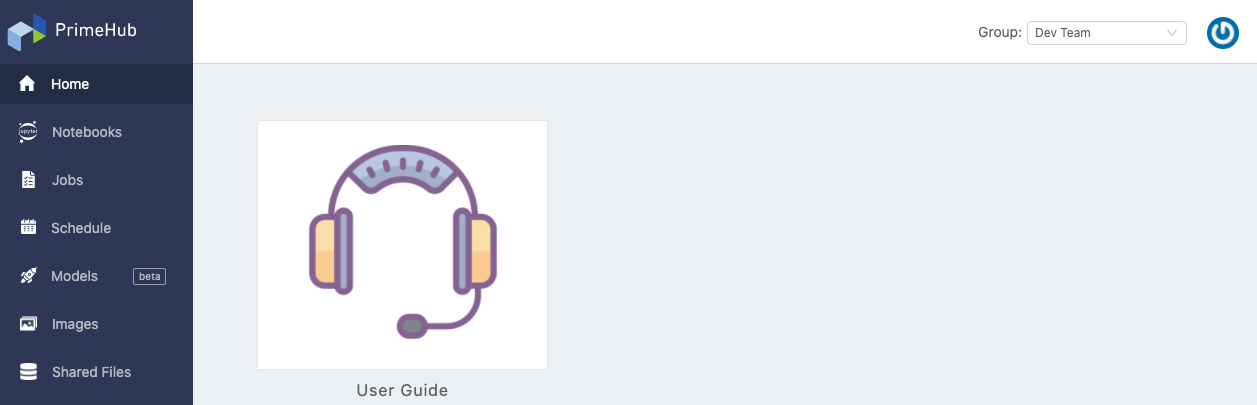
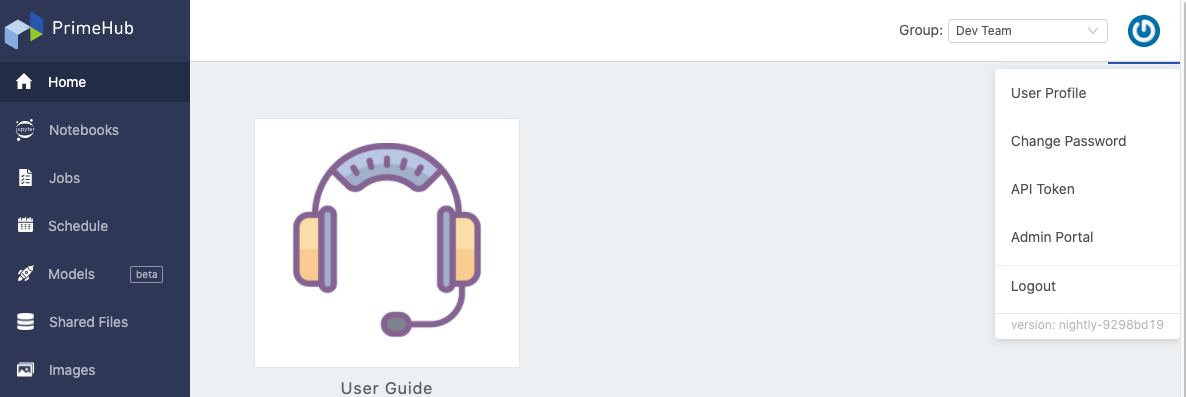
added roles doc and re-org sidebar context.

diff --git a/docs/quickstart/login-portal-user.md b/docs/quickstart/login-portal-user.md
@@ -2,6 +2,7 @@
 id: login-portal-user
 title: User Portal
 description: User Portal
+sidebar_label: Introduction
 ---
 
 <div class="label-sect">
@@ -13,46 +14,53 @@ description: User Portal
   </div>
 </div>
 
-This quickstart shows how to login/logout `User Portal`.
-
-## Login
-
-Click Login with your own username (such as `phadmin` by default) and password.
-
 ## User Portal
+
+After login, a user lands on User Portal.
 
 ![](assets/v33-landing-user.png)
 
-On Portal, the left side is **side menu**, the right side is the **context of the current working group**. At the top of the right side, there is a `Group:` dropdown for working groups switch. Users can switch the working group among joining groups easily.
+On Portal, the left side is **side menu** composed of platforme user features, the right side is the **context of the current working group**. At the top-right, there is a `Group:` dropdown of switching working groups. Users can switch the working group to proceed to different projects easily.
 
-First of all, users have to specify a working group from joining groups by using the dropdown. Accordingly, the following context will be retained within the working group.
+
+### Group-Context
+
+First of all, users have to specify a working group from joining groups by using the dropdown. Accordingly, the following right-side context is retained within the working group, it is so called **Group-Context**.
 
 ![](assets/group_context.png)
 
-At side menu, there are
-
-+ **Home** where users can find `User Guide` link which connects to this `PrimeHub Documentation` site.
-
-+ **Notebooks**  where users can launch a Jupyter Notebook for projects.See [Launch Notebook](../quickstart/launch-project).
-
-+ **Jobs** where users can submit jobs for time-consuming tasks. See [Job Submission](../job-submission-feature). <span class="ee-only">Enterprise</span>
-
-+ **Schedule** where users can schedule jobs regularly. See [Job Scheduler](../job-scheduling-feature). <span class="ee-only">Enterprise</span>
-
-+ **Models (Beta)** where users can deploy and serve models as services. See [Model Deployment](../model-deployment-feature). <span class="ee-only">Enterprise</span>
-
-+ **Images** where Group Admin can add group-specific images for the managed group. See [Images](../group-image). (Group Admin Only)
-
-+ **Shared Files** where users can upload files to PHFS storage to share with group members. See [Shared Files](../shared-files).
-
->If users don't belong to any group, the page shows `No group available`. Please contact administrators.
+>If users don't belong to any group, the page shows `No group available` without any features. Please contact administrators.
 
 ![](assets/v3-landing-user-no-group.png)
 
-## Logout
 
-Please click `Logout` button at top-right. The page would be directed to the `Login` page.
+### Profile Menu
 
+Hovering over top-right icon, there is a Profile Menu containing **User Profile**, **Change Password**, **API Token**, **Admin Portal** and **Logout** shortcuts.
+
+
+## User Feature
+
++ **Home** where users can find **User Guide** linking to the **PrimeHub Documentation** site.
+
++ **Notebooks**  where users can launch a Jupyter Notebook for projects. See [Notebook environment](../quickstart/launch-project).
+
++ **Jobs** where users can submit jobs of time-consuming tasks. See [Jobs](../job-submission-feature). <span class="ee-only">Enterprise</span>
+
++ **Schedule** where users can schedule jobs regularly. See [Schedule](../job-scheduling-feature). <span class="ee-only">Enterprise</span>
+
++ **Models (Beta)** where users can deploy and serve models as services. See [Model Deployment](../model-deployment-feature). <span class="ee-only">Enterprise</span>
+
++ **Shared Files** where users can upload files to PHFS storage to share with group members. See [Shared Files](../shared-files).
+
+### Group admin feature
+
+Features here are Group-Admin-Only.
+
++ **Images** where Group Admin can add/build group-specific images for the managed group. See [Images](../group-image).
+
+> Please contact administrators to acquire Group Admin privilege.
+ 
 
 ## License warning
 

diff --git a/docs/getting-started-user.md b/docs/getting-started-user.md
@@ -3,32 +3,6 @@ id: getting-started-user
 title: Getting Started
 ---
 
-## Overview
-
-**PrimeHub** is based on team/group-centric design that every user must be associated with one *Group* at least before using features. Initially there are a user `phadmin` who has admin privileges associated with a group `phusers`.
-
-Also, resources such as image, instance type, dataset must be associated with one *Group* at least or be *Global* before being chosen.
-
-PrimeHub v3, furthermore, enhances this concept by introducing *Group-Context* design.
-
-Initial PrimeHub has a built-in *user* `phadmin`, a built-in *group* `phusers`, several *instance types*/*image* which are available to *Global* ready to use. A user can launch a notebook quickly by using these resources. 
-
-To add/delete/edit users, groups and other resources, users are required to switch to Admin Portal, use [administration features](getting-started-admin) there to achieve it.
-
-## Group-Context
-
-+ A current working project-group is required to be specified from associated groups of users; users can switch working groups to have the different context.
-
-+ Accordingly, the context/the operations are retained within the working group.
-
-+ `Jobs` feature, `Schedule` feature and `Models` feature, these features present/operate items *only within the current working group*. Furthermore, user-operations, such as submitting jobs, creating job schedule and serving models, are also performed within the current working group correspondingly.
-
-+ Notebook will be launched within the current working group by default.
-
-+ Context are independently from groups.
-
-## Guides
-
 Here are documents to guide you to launch a notebook, to submit jobs, to deploy models via features on User Portal and so on.
 
 + [Access User Portal](quickstart/login-portal-user.md)

diff --git a/docs/getting-started-admin.md b/docs/getting-started-admin.md
@@ -3,47 +3,3 @@ id: getting-started-admin
 title: Administration
 ---
 
-## 🌟PrimeHub v3
-
-From **PrimeHub v3**, administration features are performed on `Admin Portal` which is independent from **User Portal**. Please check changes below if you come from PrimeHub v2.x or just skip to guides if you are newcomers.
-
-## Admin Portal
-
-![](assets/v3-admin-portal_v31.png)
-
-### Changes from PrimeHub v2.x
-
-+ Then entrance of **Admin Portal**. See [Access Admin Portal](quickstart/login-portal-admin). 
-
-+ `Notebooks Admin` feature, `Maintenance` feature and `Grafana` link are merged into Admin Portal.
-
-+ `JupyterHub Admin` is renamed to `Notebooks Admin`.
-
-+ `System` is renamed to `System Settings`.
-
-## Guides
-
-PrimeHub provides features which help administrators manage resources, control access of users/groups and operate certain maintenance tasks. All of these features are performed on **Admin Portal**.
-
-Guides are included:
-
-+ [Access Admin Portal](quickstart/login-portal-admin)
-
-+ [Manage PrimeHub system and check the license](guide_manual/admin-system)
-
-+ [Manage users and groups](guide_manual/admin-user)
-
-+ [Manage instance types, images, dataset resources](guide_manual/admin-instancetype)
-
-+ [Build custom images for users](guide_manual/admin-build-image)
-  + [Custom Image Guideline](guide_manual/custom-image-guideline)
-
-+ [Manage secrets(credentials)](guide_manual/admin-secret.md) 
-
-  + [GitLab Pull Secret](quickstart/secret-pull-image)
-  + [GitHub gitsync secret](quickstart/secret-gitsync)
-
-+ [Review monthly usage report](guide_manual/admin-report)
-  
-+ [Perform operations via Maintenance Notebook](maintenance)
-

diff --git a/docs/quickstart/login-portal-admin.md b/docs/quickstart/login-portal-admin.md
@@ -2,6 +2,7 @@
 id: login-portal-admin
 title: Admin Portal
 description: Admin Portal
+sidebar_label: Introduction
 ---
 
 <div class="label-sect">
@@ -13,27 +14,21 @@ description: Admin Portal
   </div>
 </div>
 
-This quickstart shows how to access `Admin Portal`.
-
-## Login
-
-Click Login with your own username (such as `phadmin` by default) and password.
-
 ## Switch to Admin Portal 
 
-When login as an administrator, initially, you are directed to **User Portal**, click the icon at top-right and select `Admin Portal` for the switch.
+When login as an administrator, initially, you are landed on **User Portal**, click the Profile icon at top-right and select **Admin Portal** for the switch.
 
 ![](assets/v3-admin-entry.png)
 
 ## Admin Portal
 
-Basically, the layout is same as Admin Dashboard in PrimeHub v2.x; in addition,  `Notebooks Admin` feature, `Maintenance` feature and `Grafana` link are merged into Admin Portal.
-
-+ `JupyterHub Admin` is renamed to `Notebooks Admin`.
-
 ![](assets/v3-admin-portal_v31.png)
 
-### Side Menu
+### Profile Menu
+
+Hovering over top-right icon, there is a Profile Menu containing **User Profile**, **Change Password** and **Logout** shortcuts.
+
+## Administration Features
 
 + `Groups` where Admin can manage groups. See [Group Management](../guide_manual/admin-group).
 
@@ -59,6 +54,4 @@ Basically, the layout is same as Admin Dashboard in PrimeHub v2.x; in addition, 
 
 + `Grafana` where Admin can view dashboards on **Grafana**.
 
-## Logout
 
-Click `Logout` button at top-right. The page would be directed to the `Login` page.

diff --git a/docs/introduction.md b/docs/introduction.md
@@ -4,14 +4,17 @@ title: Platform Introduction
 sidebar_label: Platform
 ---
 
-## Introduction
 
-**PrimeHub** is a platform for groups of data scientists. It is based on group-centric design, which facilitates resources management and accelerates collaborative development for groups. PrimeHub is composed of User Portal and Admin Portal.
+**PrimeHub** is a platform for groups of data scientists. Based on group-centric design, users can share datasets, artifacts and co-work easily within same groups/projects, which accelerates collaborative development for groups and facilitates resources management.
 
-User Portal incorporates scientists-facing features that scientists are able to generate models from Notebook and serve models by deployments.
+---
+
+PrimeHub platform is composed of **User Portal** and **Admin Portal**.
+
+**User Portal** incorporates scientists-facing prominent features that scientists are able to have pipelines by submitting/scheduling jobs, prepare data/generate models from Notebook and serve models by deployments. See [User Guide](quickstart/login-portal-user).
 
 ![](assets/v33-landing-user.png)
 
-Admin Portal incorporates administration features that administrators are able to have access control, resources management and quotas control.
+**Admin Portal** incorporates administration features that administrators are able to have access control management, resources management and quotas control management. See [Administration Guide](quickstart/login-portal-admin).
 
 ![](assets/v3-admin-portal_v31.png)

diff --git a/docs/roles.md b/docs/roles.md
@@ -1,0 +1,25 @@
+---
+id: roles
+title: Permission
+sidebar_label: Overview
+description: Permission 
+---
+
+
+## User
+
+Every account has the fundamental user privilege, as long as users who are members of groups are able to perform general user features within a working group from User Portal. 
+
+See [User Guide](quickstart/login-portal-user).
+
+## Group Administrator
+
+Every user can become a Group Administrator as long as Administrator gives users privileges to specific groups. As a Group Admin, you are able to access not only general user features , but also Group-Admin-Only features from User Portal. You are able to add images or even to build custom images for managed groups.
+
+See [Group admin features](quickstart/login-portal-user#group-admin-feature) and [Group admin role](guide_manual/admin-group#members)
+
+## Administrator
+
+Administrators have highest privileges on the platform that besides User Portal, administrators are able to access Admin Portal and all of features on it. As an Administrator, you are able to perform user/group/access control management, resources/quota management. Furthermore, you are able to build custom images, examine monthly usage report, system metrics, even are capable of shooting troubles of certain levels on behalf of users. You are required to overview/plan system-wise managements for users/groups.
+
+See [Administration Guide](quickstart/login-portal-admin).

diff --git a/docs/job-scheduling.md b/docs/job-scheduling.md
@@ -9,7 +9,7 @@ description: Job Schedule
   <span class="tooltiptext">Applicable to Enterprise tier only</span>
 </div>
 
-PrimeHub has Job Submission feature that we can submit a one-time job immediately for running asynchronously; however, we sometimes want to submit certain jobs regularly according schedules. PrimeHub, hence, provides another feature, **Job Schedule** that we can create Schedules which are responsible for submitting jobs regularly according to the recurrence setting for us.
+PrimeHub has Job Submission feature that we can submit a one-time job immediately for running asynchronously; however, we sometimes want to submit certain jobs regularly according to schedules. PrimeHub, hence, provides another feature, **Job Schedule** that we can create Schedules which are responsible for submitting jobs regularly according to the recurrence setting for us.
 
 We can access `Schedule` feature inside **Job Submission** from the portal.
 

diff --git a/docs/getting_started/install_primehub_ce.md b/docs/getting_started/install_primehub_ce.md
@@ -115,4 +115,6 @@ Hooray! PrimeHub CE has been installed and is running now.
 
 ## New to PrimeHub
 
-Now PrimeHub CE is ready, see [Launch Notebook](../quickstart/launch-project) to launch your very first JupyterNotebook on PrimeHub. Also see [Getting Started](../getting-started-user) to have the fundamental knowledge of PrimeHub.
+Initially, PrimeHub has a built-in *user* `phadmin`, a built-in *group* `phusers`, several *instance types*/*image* which are available to *Global* ready to use. `phadmin` can launch a notebook quickly by using these resources. 
+
+Now PrimeHub CE is ready, see [Launch Notebook](../quickstart/launch-project) to launch your very first JupyterNotebook on PrimeHub. Also see [User Guide](../quickstart/login-portal-user) to have the fundamental knowledge of PrimeHub.

diff --git a/docs/getting_started/kubernetes_on_ubuntu_ce.md b/docs/getting_started/kubernetes_on_ubuntu_ce.md
@@ -173,6 +173,12 @@ Once the `primehub-bootstrap` is running, use the the command to watch the log o
 kubectl logs -n hub $(kubectl get pod -n hub | grep primehub-bootstrap | cut -d' ' -f1) -f
 ```
 
+## New to PrimeHub
+
+Initially, PrimeHub has a built-in *user* `phadmin`, a built-in *group* `phusers`, several *instance types*/*image* which are available to *Global* ready to use. `phadmin` can launch a notebook quickly by using these resources. 
+
+Now PrimeHub CE is ready, see [Launch Notebook](../quickstart/launch-project) to launch your very first JupyterNotebook on PrimeHub. Also see [User Guide](../quickstart/login-portal-user) to have the fundamental knowledge of PrimeHub.
+
 ---
 
 ## Troubleshooting

diff --git a/docs/getting_started/kubernetes_on_ubuntu_machine.md b/docs/getting_started/kubernetes_on_ubuntu_machine.md
@@ -212,6 +212,12 @@ Once you have a valid license file from InfuseAI. Put the `license_crd.yml` file
 ./primehub-install apply-license
 ```
 
+## New to PrimeHub
+
+Initially, PrimeHub has a built-in *user* `phadmin`, a built-in *group* `phusers`, several *instance types*/*image* which are available to *Global* ready to use. `phadmin` can launch a notebook quickly by using these resources. 
+
+Now PrimeHub CE is ready, see [Launch Notebook](../quickstart/launch-project) to launch your very first JupyterNotebook on PrimeHub. Also see [User Guide](../quickstart/login-portal-user) to have the fundamental knowledge of PrimeHub.
+
 ---
 
 ## Troubleshooting

diff --git a/docs/getting_started/install_primehub.md b/docs/getting_started/install_primehub.md
@@ -121,3 +121,9 @@ You can check the license status from [System Management](../guide_manual/admin-
    ```
    kubectl -n hub logs jobs/primehub-bootstrap
    ```
+
+## New to PrimeHub
+
+Initially, PrimeHub has a built-in *user* `phadmin`, a built-in *group* `phusers`, several *instance types*/*image* which are available to *Global* ready to use. `phadmin` can launch a notebook quickly by using these resources. 
+
+Now PrimeHub CE is ready, see [Launch Notebook](../quickstart/launch-project) to launch your very first JupyterNotebook on PrimeHub. Also see [User Guide](../quickstart/login-portal-user) to have the fundamental knowledge of PrimeHub.

diff --git a/docs/quickstart/nb-data-store.md b/docs/quickstart/nb-data-store.md
@@ -1,7 +1,8 @@
 ---
 id: nb-data-store
-title: Storing Data
+title: Persistence
 description: Storing Data
+sidebar_label: Overview
 ---
 
 In Notebook, PrimeHub provides several places of storing various data.
